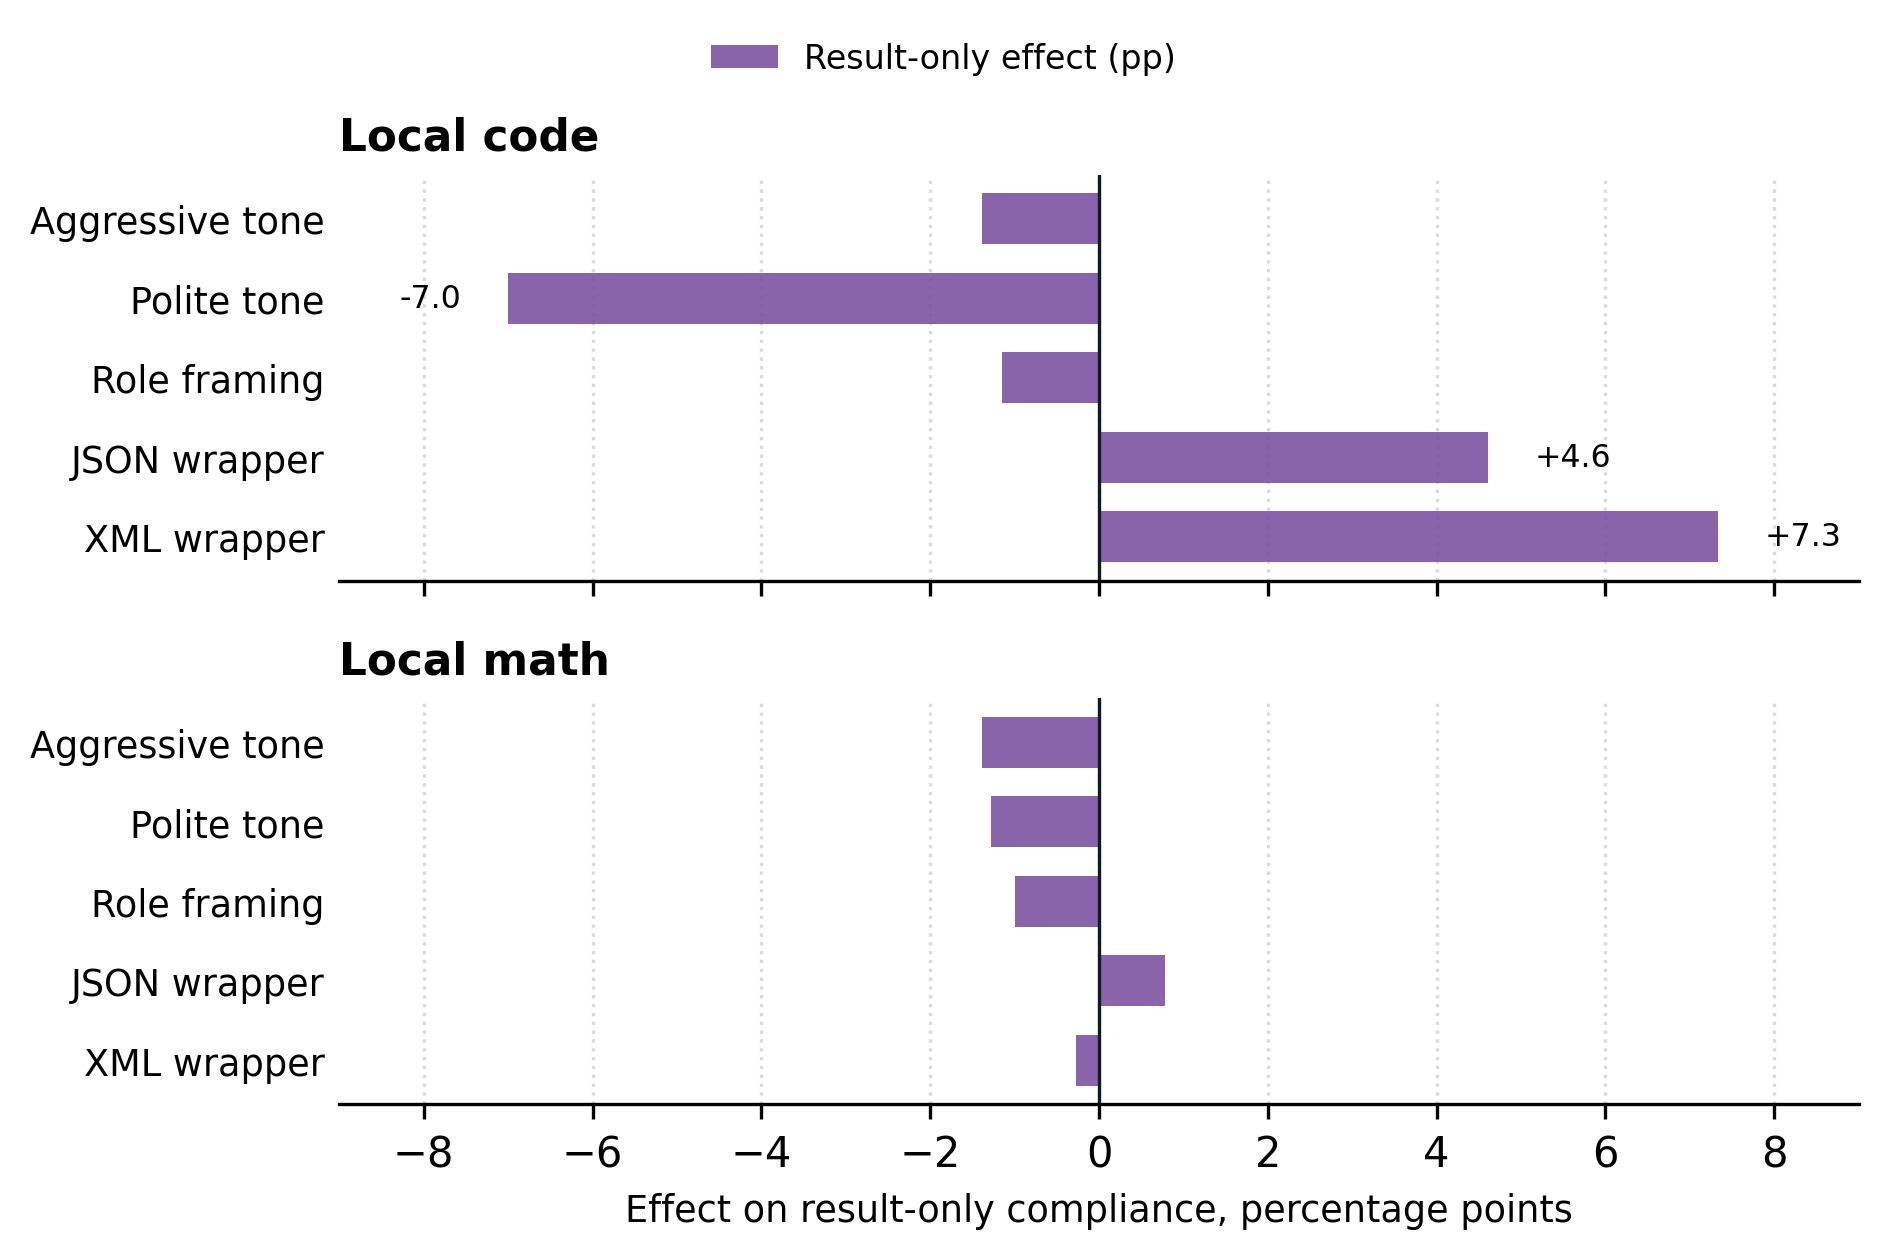
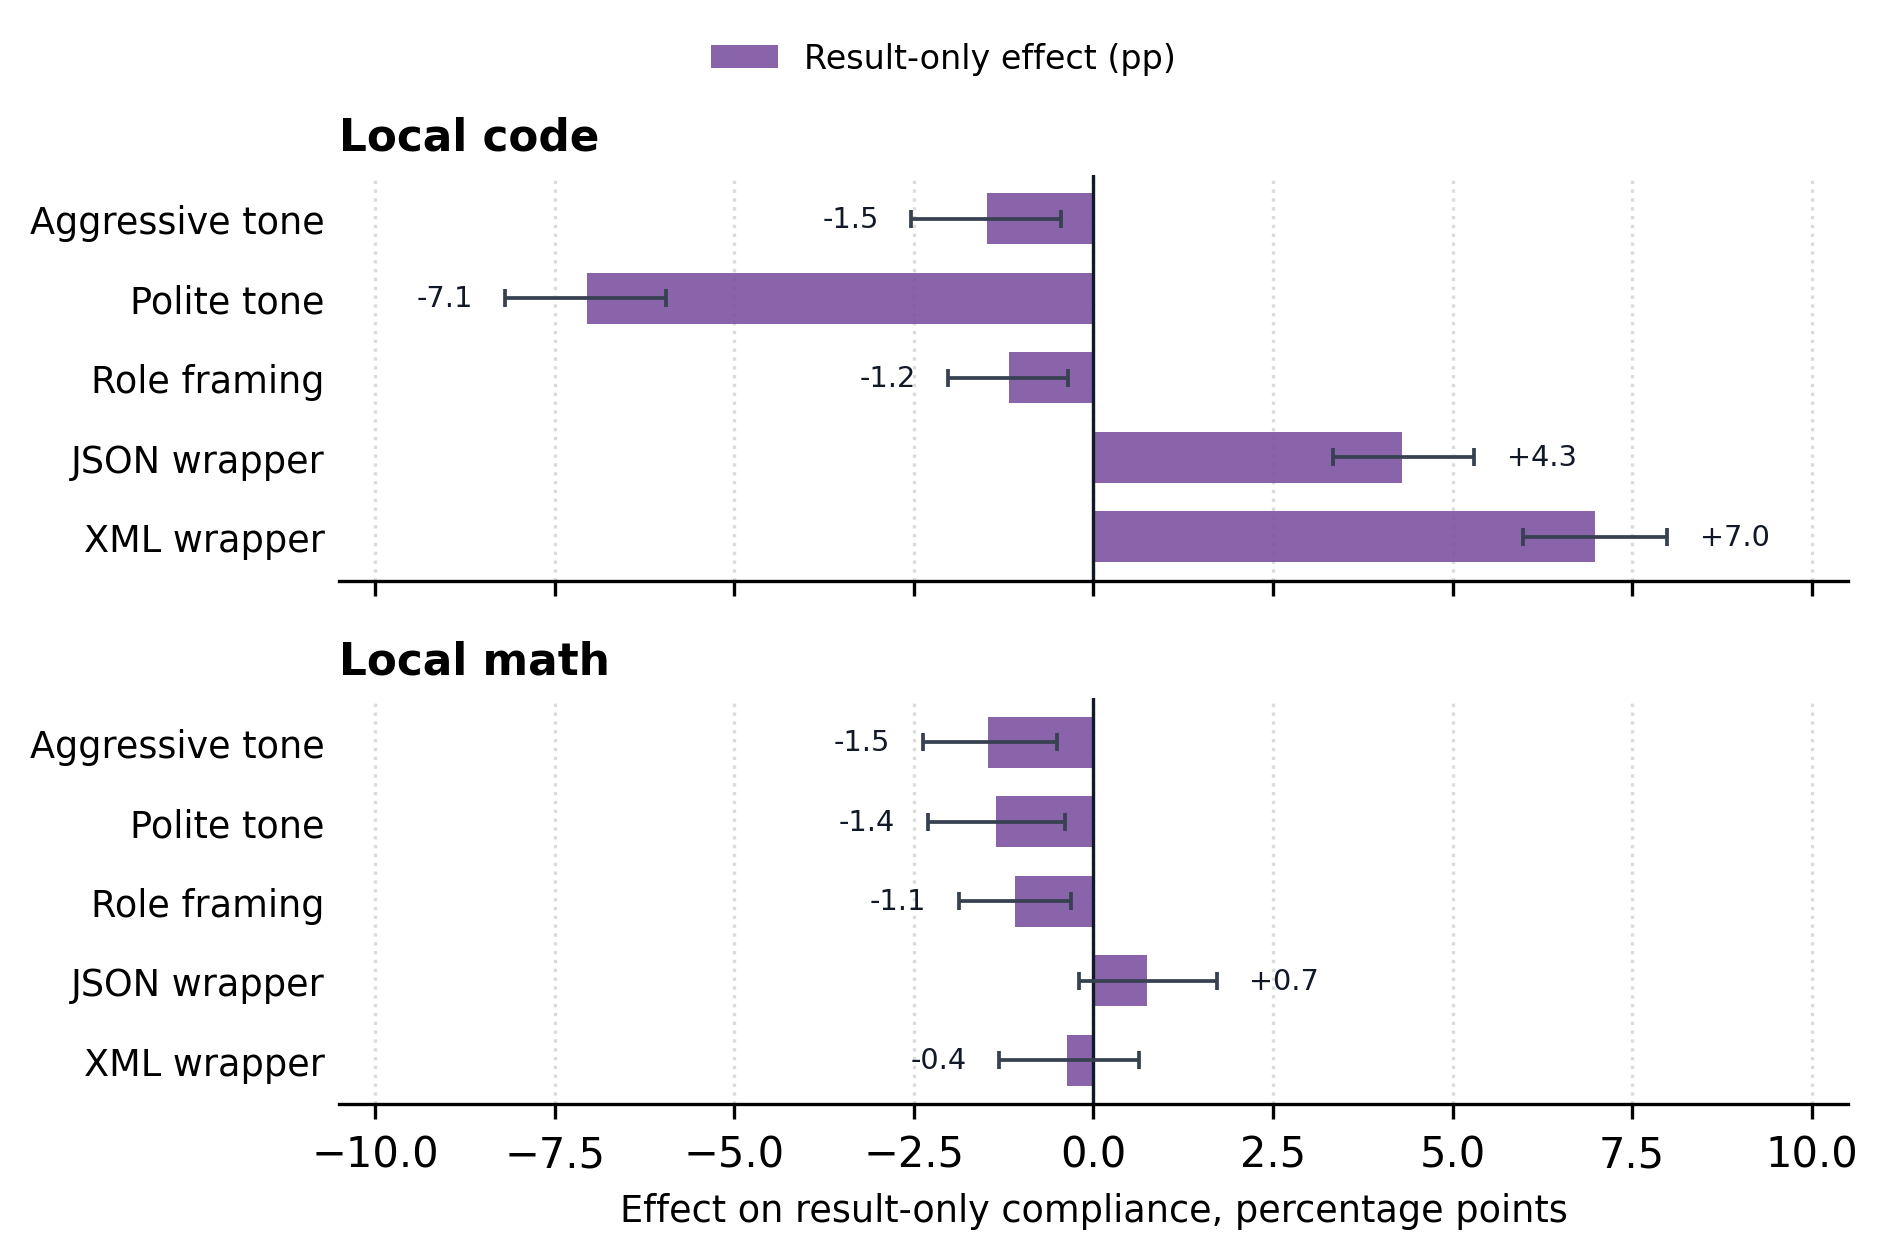
Add labelled, 95%-CI behavior figures and interval-bearing behavior ledger
run_mixed_effects_analysis.py now writes ci_lo/ci_hi to mixed_effects_behavior.csv, make_figures.py labels every bar and draws the intervals, and the refreshed figure PNGs plus README document the change.

diff --git a/10Paperv3/scripts/make_figures.py b/10Paperv3/scripts/make_figures.py
@@ -121,8 +121,18 @@ def save_model_performance() -> None:
     plt.close(fig)
 
 
+BEHAVIOR_OUTCOME = {
+    "log(tokens)": "log_completion_tokens",
+    "log(duration)": "log_duration",
+    "result_only": "result_only",
+}
+
+
 def _behavior_bars(fig, axes, metric_order, metric_labels, colors, xlabel, xlim):
-    rows = read_rows("manuscript_behavior_effects.csv")
+    rows = read_rows("mixed_effects_behavior.csv")
+    lookup = {
+        (row["stratum"], row["outcome"], row["contrast"]): row for row in rows
+    }
     group_order = ["Local code", "Local math"]
     y_positions = list(range(len(FACTOR_ORDER)))
     bar_height = 0.8 / max(len(metric_order), 1) / 1.25
@@ -134,21 +144,35 @@ def _behavior_bars(fig, axes, metric_order, metric_labels, colors, xlabel, xlim)
     for ax, group_name in zip(axes, group_order):
         for metric, offset in zip(metric_order, offsets):
             label = metric_labels[metric]
-            values = []
+            outcome = BEHAVIOR_OUTCOME[metric]
+            values, lo_err, hi_err = [], [], []
             for factor_label in FACTOR_ORDER:
-                match = [
-                    row
-                    for row in rows
-                    if row["task_group"] == group_name and row["factor_label"] == factor_label and row["metric"] == metric
-                ][0]
-                values.append(float(match["effect"]))
+                row = lookup[(group_name, outcome, factor_label)]
+                value = float(row["effect_approx"])
+                lo = float(row["ci_lo"])
+                hi = float(row["ci_hi"])
+                values.append(value)
+                lo_err.append(value - lo)
+                hi_err.append(hi - value)
             positions = [y + offset for y in y_positions]
             ax.barh(positions, values, height=bar_height, color=colors[label], alpha=0.88, label=label)
-            for pos, value in zip(positions, values):
-                if abs(value) >= 3:
-                    ha = "left" if value >= 0 else "right"
-                    x = value + (0.55 if value >= 0 else -0.55)
-                    ax.text(x, pos, f"{value:+.1f}", va="center", ha=ha, fontsize=7.6)
+            ax.errorbar(
+                values,
+                positions,
+                xerr=[lo_err, hi_err],
+                fmt="none",
+                ecolor="#374151",
+                elinewidth=0.9,
+                capsize=2.2,
+                capthick=0.9,
+                zorder=4,
+            )
+            for pos, value, lo_e, hi_e in zip(positions, values, lo_err, hi_err):
+                if value >= 0:
+                    x, ha = value + hi_e + 0.45, "left"
+                else:
+                    x, ha = value - lo_e - 0.45, "right"
+                ax.text(x, pos, f"{value:+.1f}", va="center", ha=ha, fontsize=6.9, color="#111827")
 
         ax.axvline(0, color="#111827", linewidth=0.8)
         ax.set_yticks(y_positions)
@@ -177,7 +201,7 @@ def save_behavior_effects_tokens_duration() -> None:
         {"log(tokens)": "Token effect (%)", "log(duration)": "Duration effect (%)"},
         {"Token effect (%)": "#2f6f9f", "Duration effect (%)": "#8f5f21"},
         "Effect on completion tokens / duration, percent",
-        (-24, 16),
+        (-28, 19),
     )
     fig.savefig(FIGURES / "behavior_effects_tokens_duration.png", dpi=300, bbox_inches="tight")
     plt.close(fig)
@@ -193,7 +217,7 @@ def save_behavior_effects_compliance() -> None:
         {"result_only": "Result-only effect (pp)"},
         {"Result-only effect (pp)": "#7a4f9f"},
         "Effect on result-only compliance, percentage points",
-        (-9, 9),
+        (-10.5, 10.5),
     )
     fig.savefig(FIGURES / "behavior_effects_compliance.png", dpi=300, bbox_inches="tight")
     plt.close(fig)

diff --git a/10Paperv3/scripts/run_mixed_effects_analysis.py b/10Paperv3/scripts/run_mixed_effects_analysis.py
@@ -19,6 +19,8 @@ Reported per term:
 Behavioral outcomes:
     - log completion tokens, log duration: linear mixed models (same structure)
     - result-only compliance (binary): logistic mixed model
+    - both report point estimates and 95% interval bounds (ci_lo, ci_hi) in the
+      same units as effect_approx, and feed the labelled behaviour figures
 
 Also produces:
     - dominant-model sensitivity (feedback point 3): all prompt effects
@@ -187,6 +189,8 @@ def linear_mixed_rows(df: pd.DataFrame, stratum: str, outcome: str) -> list[dict
             "effect_approx": float(fit.params[term] * scale),
             "unit": unit,
             "std_err": float(fit.bse[term]),
+            "ci_lo": float((fit.params[term] - 1.959963984540054 * fit.bse[term]) * scale),
+            "ci_hi": float((fit.params[term] + 1.959963984540054 * fit.bse[term]) * scale),
             "p_value": float(fit.pvalues[term]),
             "observations": int(fit.nobs),
             "n_base_tasks": int(df["base_task"].nunique()),
@@ -208,6 +212,8 @@ def compliance_mixed_rows(df: pd.DataFrame, stratum: str) -> list[dict[str, obje
                 "effect_approx": float("nan"),
                 "unit": "pp (AME)",
                 "std_err": float("nan"),
+                "ci_lo": float("nan"),
+                "ci_hi": float("nan"),
                 "p_value": float("nan"),
                 "observations": int(len(work)),
                 "n_base_tasks": int(work["base_task"].nunique()),
@@ -235,6 +241,8 @@ def compliance_mixed_rows(df: pd.DataFrame, stratum: str) -> list[dict[str, obje
                 "effect_approx": ame,
                 "unit": "pp (AME)",
                 "std_err": sd,
+                "ci_lo": ame_lo,
+                "ci_hi": ame_hi,
                 "p_value": norm_pvalue(z),
                 "observations": int(len(df)),
                 "n_base_tasks": int(work["base_task"].nunique()),

diff --git a/10Paperv3/README.md b/10Paperv3/README.md
@@ -30,6 +30,8 @@ python3 run_single_run_noise.py               # single-run Bernoulli noise floor
                                               # realized clustered SEs
 python3 run_pipeline_replay.py                # offline end-to-end replay: strict
                                               # parser + reformat-retry policy
+python3 make_figures.py                       # manuscript figures, including the
+                                              # labelled, 95%-CI behaviour panels
 ```
 
 Outputs land in `analysis/`:
@@ -40,7 +42,9 @@ Outputs land in `analysis/`:
   (tone/role/format + model fixed effects, base-task random intercept, variational
   Bayes), per stratum, with odds ratios and AME in percentage points
 - `mixed_effects_behavior.csv` — linear mixed models for log tokens/duration and
-  logistic mixed model for result-only compliance
+  logistic mixed model for result-only compliance, with point estimates, `std_err`,
+  and 95% interval bounds (`ci_lo`, `ci_hi`) in the reported units; this is the
+  source for the labelled, interval-bearing behavior figures (`figures/behavior_effects_*.png`)
 - `dominant_model_sensitivity.csv` — every prompt contrast re-estimated with and
   without the dominant model (Nemotron local, DeepSeek V4 Flash API), LPM and mixed
 - `nemotron_task_solve_summary.csv` — per-task solve pattern across the 18 prompt
